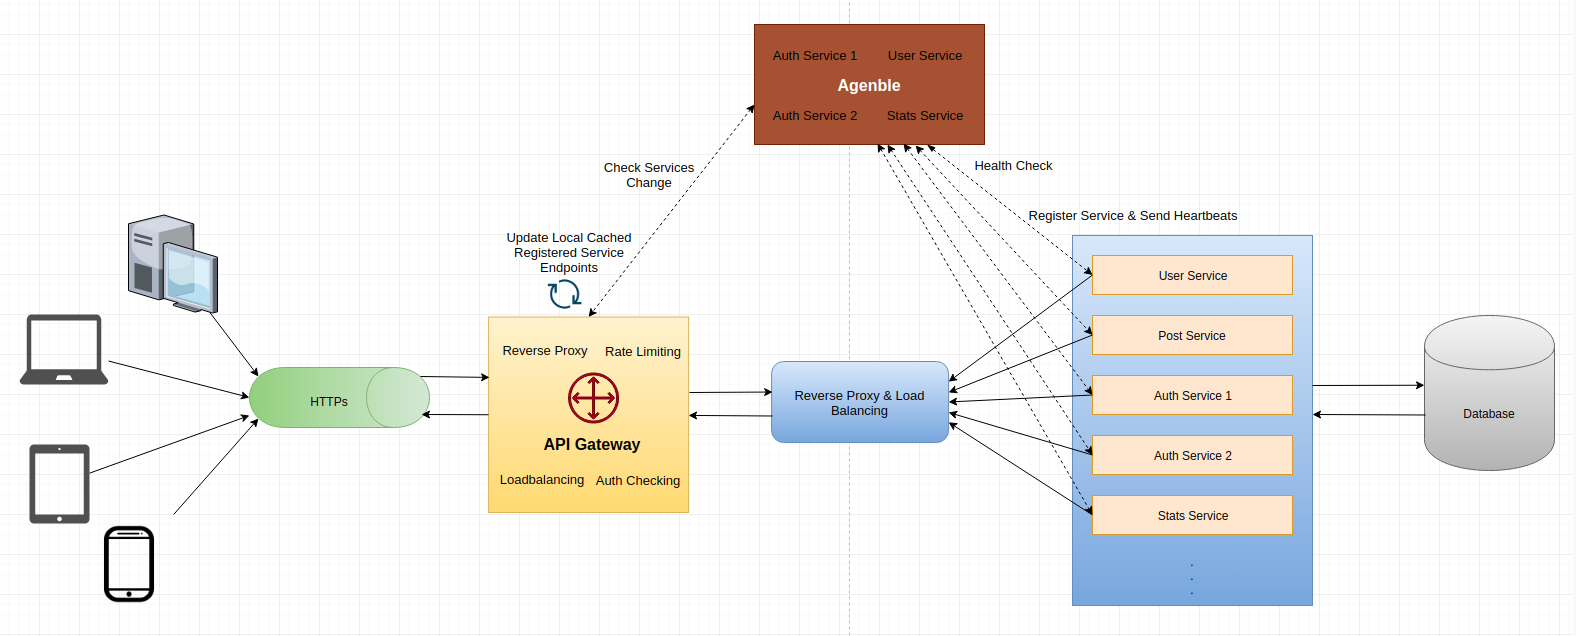
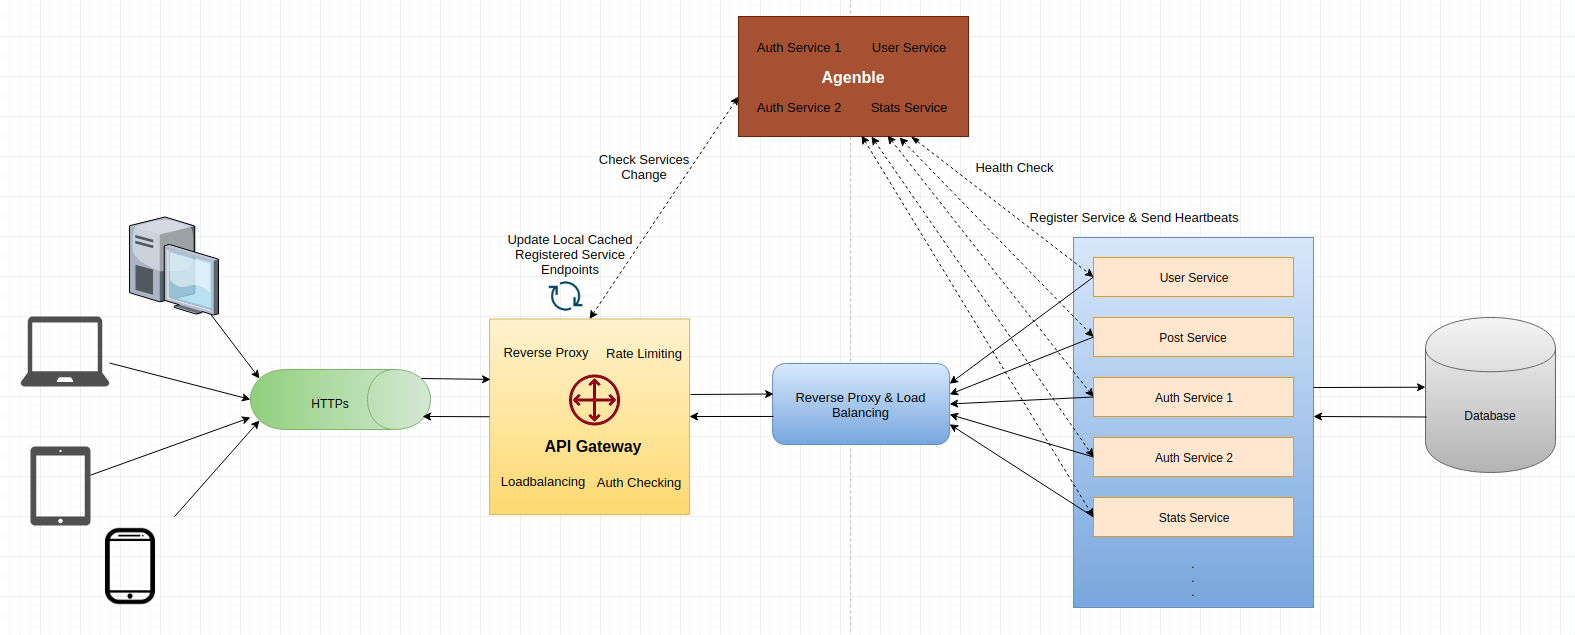
change

diff --git a/_posts/2020-01-03-ahezime-intro.md b/_posts/2020-01-03-ahezime-intro.md
@@ -34,26 +34,31 @@ PC首页显示：
 
 
 # 平台
+
+## 平台架构
+
+#### 总体架构
 ![https://rayxyz.github.io/assets/images/ahezime/ahezime-general-arch.png](https://rayxyz.github.io/assets/images/ahezime/ahezime-general-arch.png)
 
 平台系统在一开始就基于微服务(Microservice)架构开发，将传统的单一系统解耦成多个服务，每个服务负责实现平台中特定的功能；并且，每个服务可以启动多个实例，为平台的稳定、高性能运行提供最基础的保障。
 
+#### 详细架构
+![https://rayxyz.github.io/assets/images/ahezime/ahezime-general-arch-details.png](https://rayxyz.github.io/assets/images/ahezime/ahezime-general-arch-details.png)
+
 平台由Nginx作为暴露在网络上的前端、平台API Gateway(API网关)、服务注册和服务发现中心（Agenble）、服务这几个大块组成。
 
-#### Nginx
+###### Nginx
 Nginx负责静态内容资源文件服务和整合HTTPS保护用户内容安全
 
-#### 服务注册和发现中心Agenble
+###### 服务注册和发现中心Agenble
 Agenble是自主开发的微服务注册和发现中心服务，当服务进程启动后会主动注册中Agenble，Agenble在服务注册完成后会发送TCP连接请求来做服务健康检查（Health Check），当检测到服务不在线是，主动移除注册的服务，保证服务的可用性。已注册服务也会主动向Agenble发送心跳，当服务被Agenble移除后，Agenble会根据服务的心跳来再次注册服务。这样的Agenble和服务间的双向互动在最大程度上保证服务的高靠用性。
 
-#### 平台API网关
+###### 平台API网关
 负责反向代理（Reverse Proxy）、负载均衡（LB: LoadBalancing）、rate limiting、权限验证和API统计分析等。
 
 API网关提供反向代理和负载均衡的服务——API网关定时请求Agenble服务注册中心，当得知注册中心的服务发生变更时及时更新本地缓存的服务信息，并根据服务发送给注册中的心跳信息，找到最优的服务作为下次服务客户端的服务，高效地响应客户端的请求。
 
-
-#### Dashboard
-![https://rayxyz.github.io/assets/images/ahezime/ahezime-platform-dashboard.png](https://rayxyz.github.io/assets/images/ahezime/ahezime-platform-dashboard.png)
+## 平台状态
 
 #### 运行的服务状态
 ![https://rayxyz.github.io/assets/images/ahezime/ahezime-platform-devops-service-status.png](https://rayxyz.github.io/assets/images/ahezime/ahezime-platform-devops-service-status.png)
@@ -75,16 +80,21 @@ Ahezime.com分前端网站和后端平台两部分。前端网站当前主要提
 * 代码示例
 ![https://rayxyz.github.io/assets/images/ahezime/ahezime-platform-ahzprocess-code-show.png](https://rayxyz.github.io/assets/images/ahezime/ahezime-platform-ahzprocess-code-show.png)
 
+#### Dashboard
+![https://rayxyz.github.io/assets/images/ahezime/ahezime-platform-dashboard.png](https://rayxyz.github.io/assets/images/ahezime/ahezime-platform-dashboard.png)
+
 #### 服务器状态监控
 ![https://rayxyz.github.io/assets/images/ahezime/ahezime-platform-hardware-status-monistoring-local.png](https://rayxyz.github.io/assets/images/ahezime/ahezime-platform-hardware-status-monistoring-local.png)
 
 对服务器做了基本的硬件实时可视化状态监控，让管理员能实时查看服务器的运行状态，及时对紧急情况做出响应。
 
+## 平台安全
 
 #### API访问频率控制
 ![https://rayxyz.github.io/assets/images/ahezime/ahezime-platform-rate-limiting.png](https://rayxyz.github.io/assets/images/ahezime/ahezime-platform-rate-limiting.png)
 
 除了基本的状态监控，对于API攻击做了基本的访问频率控制，当用户恶意访问平台相关API时，如果超过设定的阀值，用户访问将会受到限制。
+
 
 ## 进入平台
 ![https://rayxyz.github.io/assets/images/ahezime/ahezime-right-top-hover-menu.png](https://rayxyz.github.io/assets/images/ahezime/ahezime-right-top-hover-menu.png)
